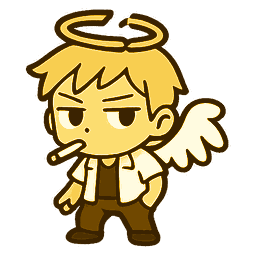
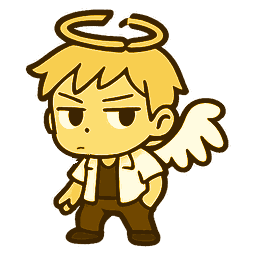
Halo Hank (p04): remove cigarette, redraw jaw, new description; regenerate Silver, Gold, Rainbow and Ink skins
Claude-Session: https://claude.ai/code/session_016T1x9t3fXLSJ9Wj3N5qPHM

Changed region(s): [[0.1562, 0.5312, 0.3438, 0.6562]]

diff --git a/src/game/species.ts b/src/game/species.ts
@@ -8,7 +8,7 @@ export const SPECIES: Species[] = [
   { id: 'p01', name: 'Prism', rarity: 'uncommon', element: 'tide', blurb: 'A shimmering water spirit who sparkles brighter with every glass you drink.' },
   { id: 'p02', name: 'Flushy', rarity: 'common', element: 'tide', blurb: 'Cries a lot, but always reminds you to hydrate.' },
   { id: 'p03', name: 'Maid Major', rarity: 'rare', element: 'ember', blurb: 'Keeps the house spotless and the workouts intense.' },
-  { id: 'p04', name: 'Halo Hank', rarity: 'uncommon', element: 'moon', blurb: 'A laid-back angel who swears he\'s quitting bad habits. Help him!' },
+  { id: 'p04', name: 'Halo Hank', rarity: 'uncommon', element: 'moon', blurb: 'A laid-back angel who finally kicked his bad habits. Now he just needs help with the rest of them.' },
   { id: 'p05', name: 'Chompack', rarity: 'common', element: 'ember', blurb: 'A hungry backpack that loves long hikes.' },
   { id: 'p06', name: 'Yuki', rarity: 'rare', element: 'moon', blurb: 'Sweet, a little intense, and very protective of her trainer.' },
   { id: 'p07', name: 'Coinbot', rarity: 'common', element: 'moon', blurb: 'Saves coins and steps with equal joy.' },
